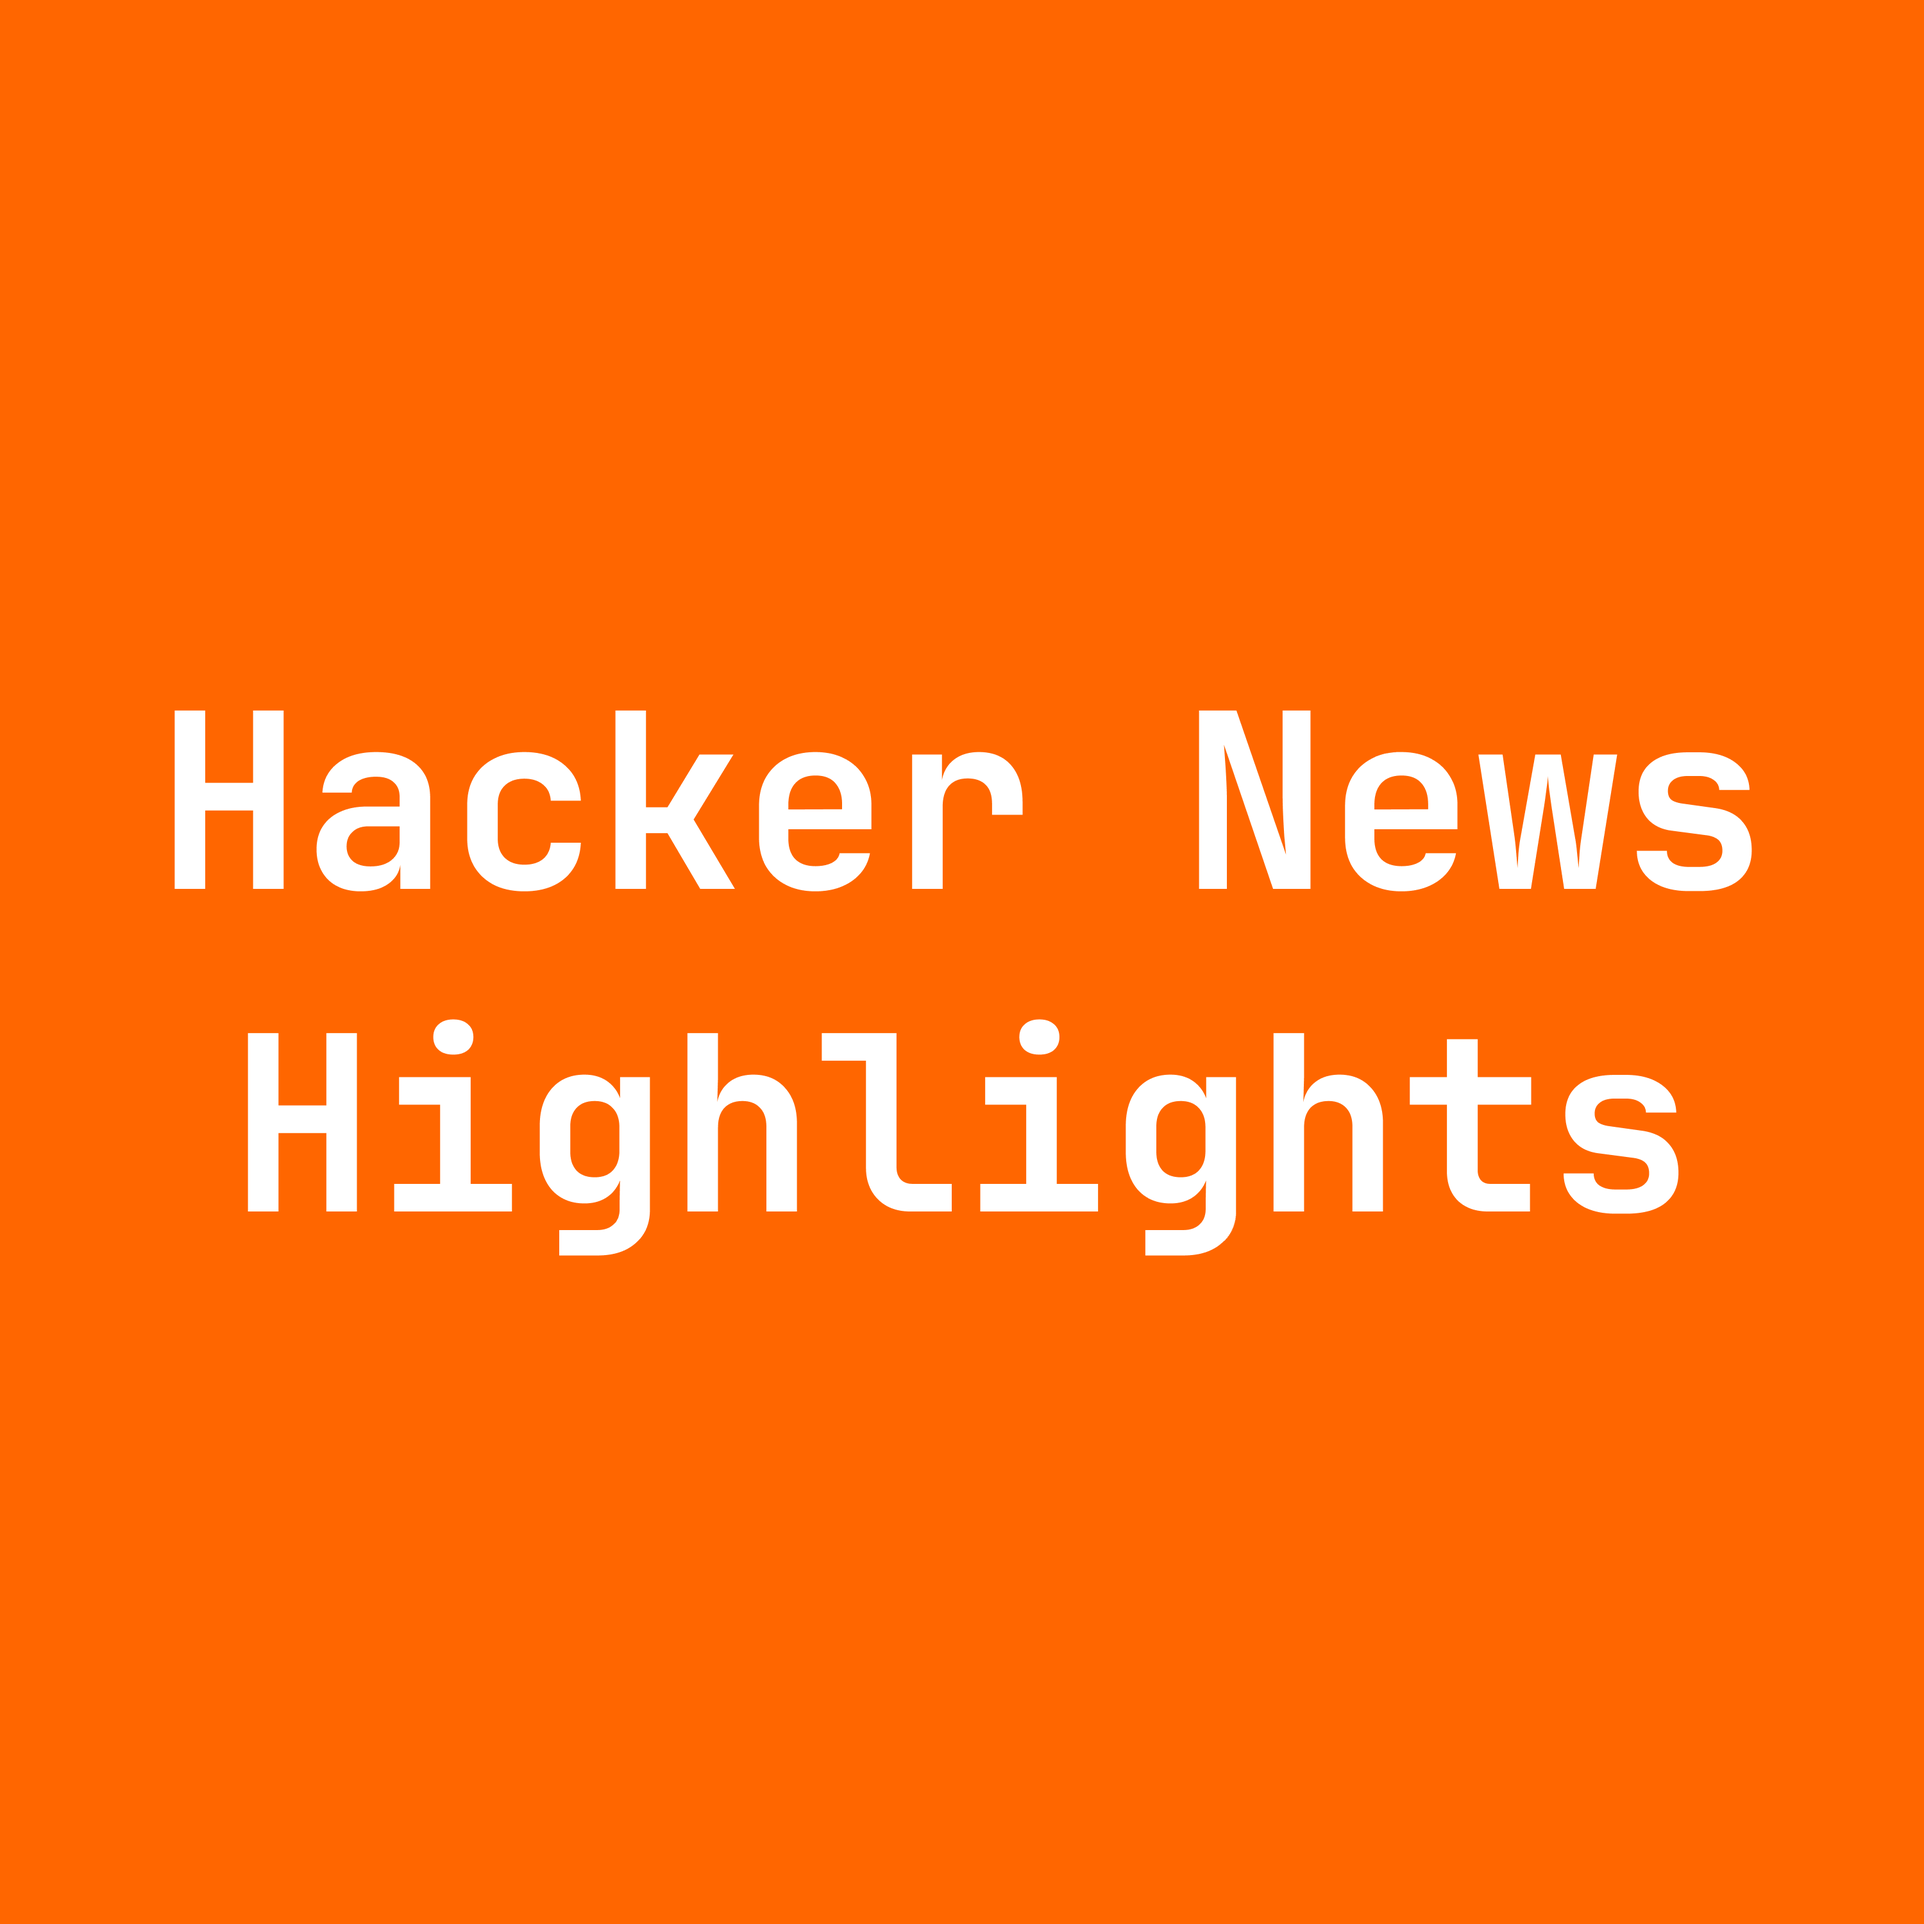
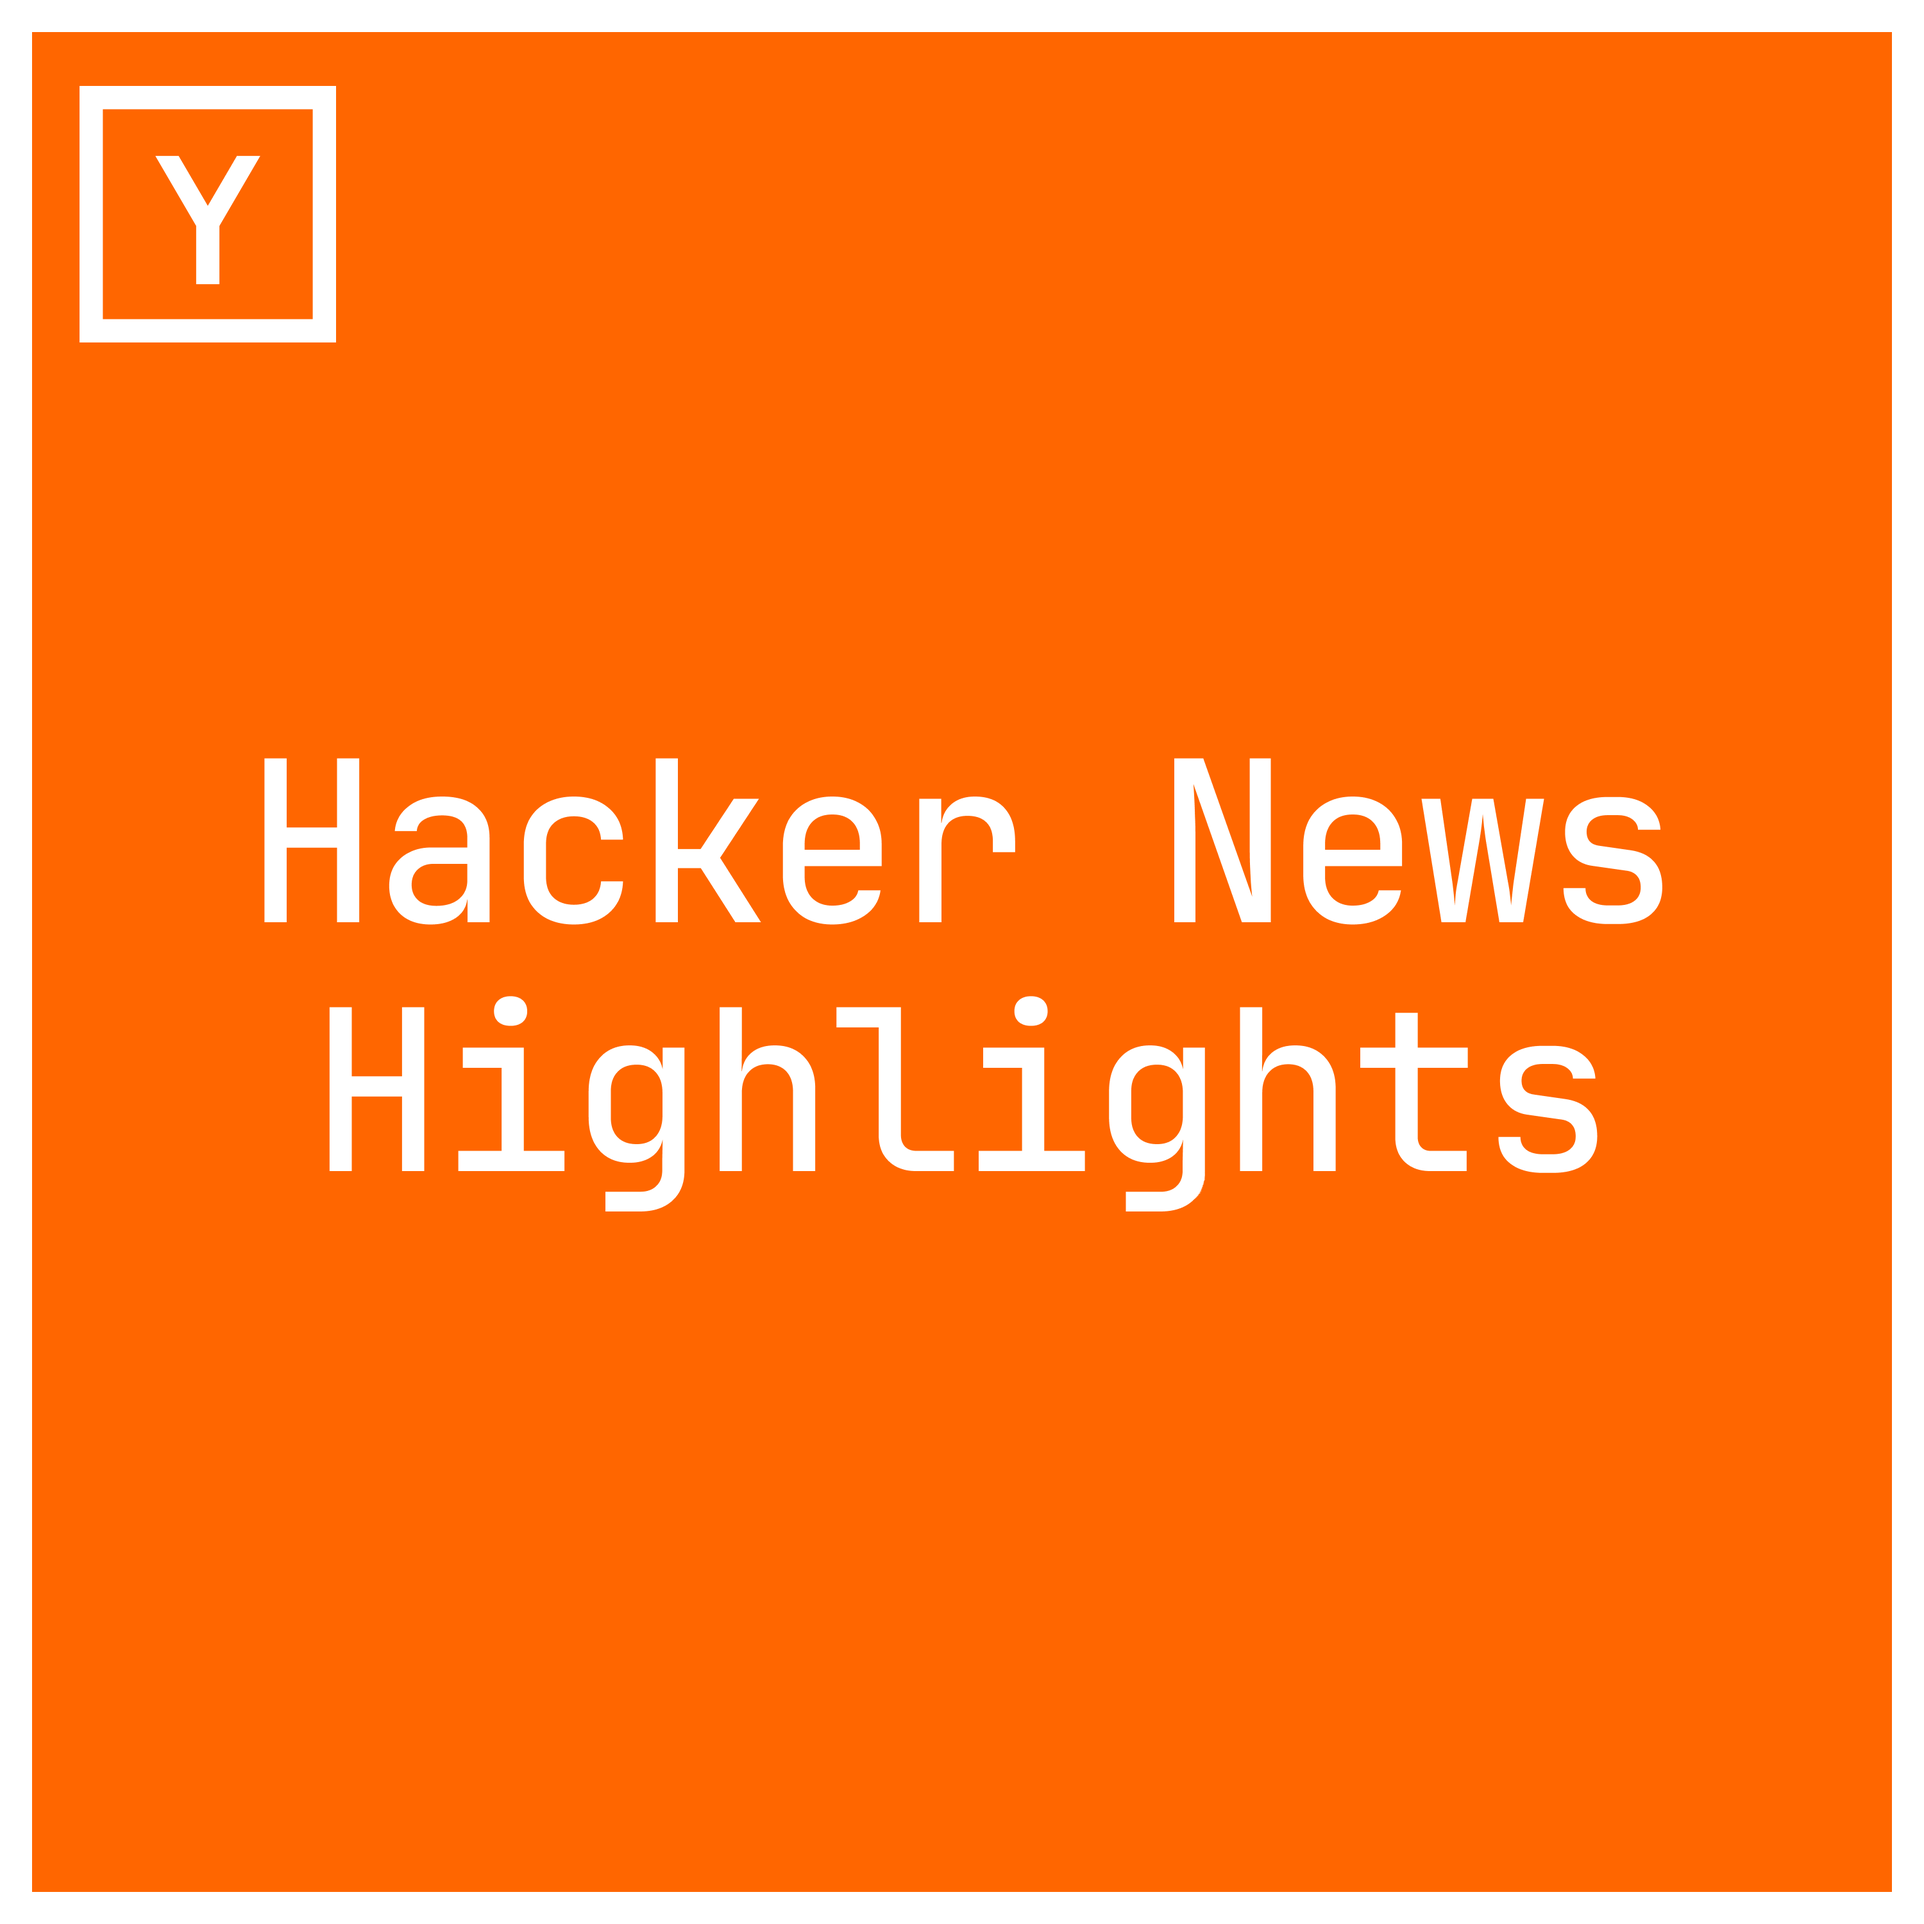
feat: update cover

Changed region(s): [[0.0, 0.0, 1.0, 1.0], [0.093, 0.372, 0.868, 0.651], [0.589, 0.372, 0.93, 0.496]]

diff --git a/README.md b/README.md
@@ -2,6 +2,10 @@
 
 > My attempt to recreate the Hacker News Recap podcast
 
+<p align="center">
+  <img src="cover.png" width="300">
+</p>
+
 ## TODO
 
 - [x] Add actual logger
